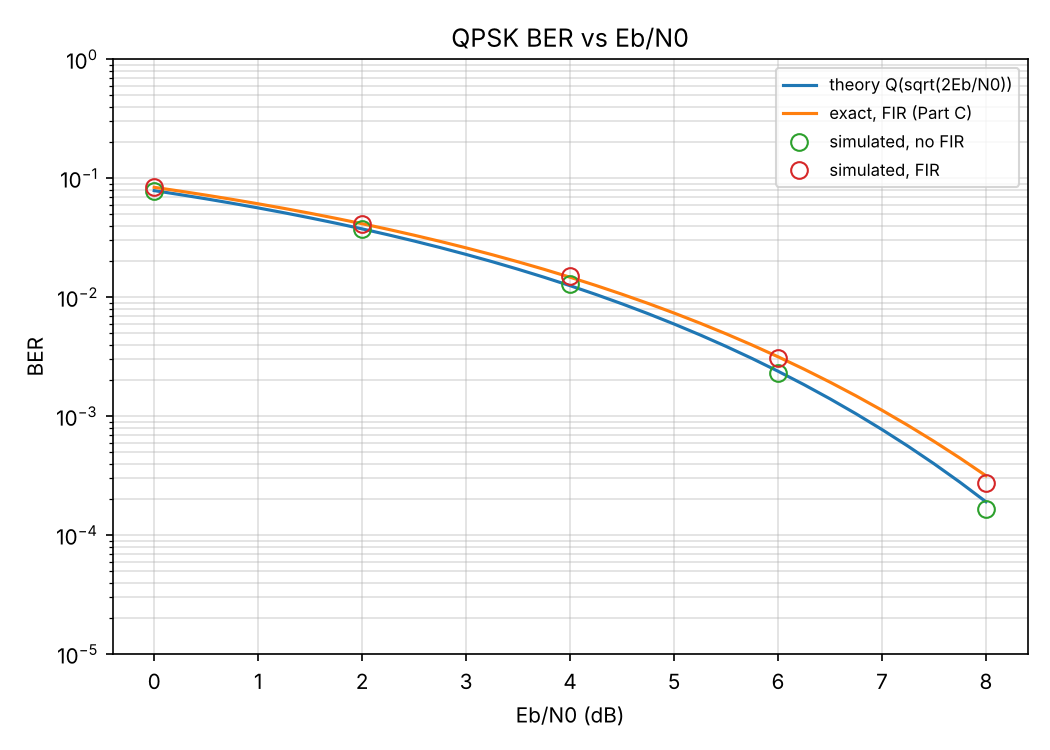
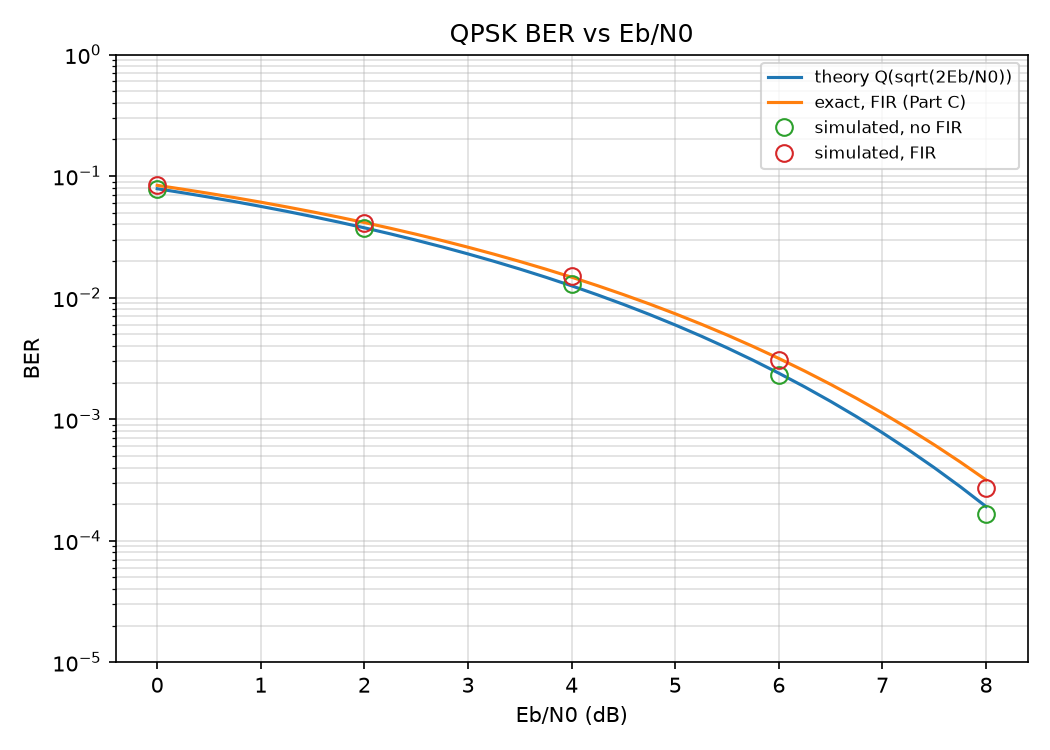
updates

Changed region(s): [[0.0305, 0.0307, 0.9752, 0.9813], [0.0, 0.46, 0.061, 0.5213], [0.7314, 0.368, 0.7619, 0.3987]]

diff --git a/python_codes/floating_point/main_float.py b/python_codes/floating_point/main_float.py
@@ -1,9 +1,8 @@
 """
 main_float.py
-Part D of the QPSK FPGA project golden model: the FLOATING-POINT end-to-end runner.
+the FLOATING-POINT end-to-end runner.
 
-Uses only the modules in this folder (tx_nco, channel, rx_frontend, rx_backend_eval) and runs
-the checks that prove the ALGORITHM is right before any bit-width is chosen:
+Uses only the modules in this folder (tx_nco, channel, rx_frontend, rx_backend_eval) and runs the checks that prove the ALGORITHM is right before any bit-width is chosen:
 
     1. noiseless chain gives exactly 0 errors (no FIR, FIR aligned, FIR causal)
     2. causal FIR + timing_offset = D gives the same decisions as aligned FIR + offset 0
@@ -12,15 +11,6 @@ the checks that prove the ALGORITHM is right before any bit-width is chosen:
     5. hardware-style LFSR noise gives the predicted BER (short run, see note below)
     6. the shared 4 dB scenario (fixed bits and noise), saved for the comparison with the integer chain
 
-The integer version of the same chain is in ../fixed_point/main_fixed.py. main() returns the numbers
-that ../compare_results.py compares; no results file is saved (only the plots).
-
-Run:   python main_float.py            (full run)
-       python main_float.py --quick    (smaller sweep, for a fast check)
-
-Author: Darsh (Part D)
-AI-assistance note: first draft written with Claude (Sonnet 5.5, Anthropic) as allowed by the
-    EE2000 AI-usage policy. The author must be able to explain and defend all of it in the viva.
 
 Notes:
   * Sweeps use numpy noise. channel.py's LFSR noise repeats exactly every 65535 samples
@@ -43,8 +33,7 @@ import rx_backend_eval as D
 SPS = params.SAMPLES_PER_SYMBOL
 QUICK = "--quick" in sys.argv
 
-HERE = os.path.dirname(os.path.abspath(__file__))
-OUT_DIR = os.path.join(HERE, "d_outputs")
+OUT_DIR = "d_outputs"
 
 H = C.design_lpf()                       # float taps, order 24
 D_FIR = C.group_delay_samples(H)         # 12 samples
@@ -53,9 +42,7 @@ SAVE_FILES = True                         # plots / golden vectors (compare_resu
 RESULTS = {}                             # filled by the checks, saved by save_results()
 
 
-# =======================================================================================
 # Chain building blocks
-# =======================================================================================
 
 def tx_float(bits):
     I, Q = tx_nco.map_qpsk(bits)
@@ -94,12 +81,10 @@ def run_chunk(ebn0_db, n_sym, seed):
     return out
 
 
-# =======================================================================================
 # 1. Noiseless sanity (gate: must be exactly zero errors)
-# =======================================================================================
 
 def check_noiseless():
-    print("\n--- Check 1: noiseless float chain must give exactly 0 errors ---")
+    print("\nCheck 1: noiseless float chain must give exactly 0 errors")
     bits = np.random.default_rng(1).integers(0, 2, 4000).astype(np.uint8)
     I, Q, s, cos, sin = tx_float(bits)
 
@@ -118,12 +103,10 @@ def check_noiseless():
     print("PASS")
 
 
-# =======================================================================================
 # 2. Causal vs aligned timing
-# =======================================================================================
 
 def check_timing():
-    print("\n--- Check 2: causal FIR + offset D equals aligned FIR + offset 0 ---")
+    print("\nCheck 2: causal FIR + offset D equals aligned FIR + offset 0 ")
     bits, r, cos, sin = simulate(6.0, 500, seed=9)
     yi_c, yq_c = rx_float(r, cos, sin, H, aligned=False)
     yi_a, yq_a = rx_float(r, cos, sin, H, aligned=True)
@@ -138,12 +121,10 @@ def check_timing():
     print("PASS")
 
 
-# =======================================================================================
 # 3. BER sweep
-# =======================================================================================
 
 def sweep():
-    print("\n--- Check 3: BER vs Eb/N0, without and with the FIR ---")
+    print("\nCheck 3: BER vs Eb/N0, without and with the FIR")
     ebn0_list = [0, 2, 4, 6, 8]
     max_bits = 200_000 if QUICK else 1_500_000
     names = ["no_fir", "fir"]
@@ -187,14 +168,12 @@ def sweep():
         print(f"wrote {path}")
 
 
-# =======================================================================================
 # 4. Constellations
-# =======================================================================================
 
 def constellations():
     if not SAVE_FILES:
         return
-    print("\n--- Check 4: constellation plots (FIR, aligned) ---")
+    print("\nCheck 4: constellation plots (FIR, aligned)")
     panels = []
     for e in (0.0, 6.0, 12.0):
         bits, r, cos, sin = simulate(e, 3000, seed=21)
@@ -206,12 +185,10 @@ def constellations():
     print(f"wrote {path}")
 
 
-# =======================================================================================
 # 5. LFSR (hardware-style) noise, short run
-# =======================================================================================
 
 def check_lfsr_noise():
-    print("\n--- Check 5: hardware-style LFSR noise, 4000 symbols at 2 dB ---")
+    print("\nCheck 5: hardware-style LFSR noise, 4000 symbols at 2 dB")
     bits = tx_nco.gen_bits(2 * 4000)
     I, Q, s, cos, sin = tx_float(bits)
     r = channel.awgn(s, 2.0, mode="lfsr", seed=3)
@@ -224,9 +201,7 @@ def check_lfsr_noise():
     print("PASS")
 
 
-# =======================================================================================
 # 6. Shared 4 dB scenario (the fixed_point folder runs the identical one)
-# =======================================================================================
 
 SCENARIO_EBN0_DB = 4.0
 SCENARIO_N_SYM = 100_000      # same in both folders, in quick mode too, so the results line up
@@ -235,7 +210,7 @@ SCENARIO_NOISE_SEED = 11
 
 
 def check_scenario():
-    print(f"\n--- Check 6: shared {SCENARIO_EBN0_DB:g} dB scenario (same bits, same noise as the integer run) ---")
+    print(f"\nCheck 6: shared {SCENARIO_EBN0_DB:g} dB scenario (same bits, same noise as the integer run)")
     bits = np.random.default_rng(SCENARIO_BIT_SEED).integers(0, 2, 2 * SCENARIO_N_SYM).astype(np.uint8)
     I, Q, s, cos, sin = tx_float(bits)
     r = channel.awgn(s, SCENARIO_EBN0_DB, mode="numpy", seed=SCENARIO_NOISE_SEED)
@@ -251,15 +226,11 @@ def check_scenario():
     print("PASS")
 
 
-# =======================================================================================
-
 def main():
     """Run every check. Returns the numbers compare_results.py needs; saves no results file."""
     if SAVE_FILES:
         os.makedirs(OUT_DIR, exist_ok=True)
-    print("=" * 74)
-    print("Part D FLOATING-POINT run" + ("  (quick mode)" if QUICK else ""))
-    print("=" * 74)
+    print("FLOATING-POINT run" + ("  (quick mode)" if QUICK else ""))
 
     check_noiseless()
     check_timing()
@@ -268,9 +239,7 @@ def main():
     check_lfsr_noise()
     check_scenario()
 
-    print("\n" + "=" * 74)
     print("All floating-point checks completed and PASSED (every check above is an assert).")
-    print("=" * 74)
     return dict(RESULTS, kind="floating-point", quick=QUICK, d_fir=D_FIR)
 
 

diff --git a/python_codes/floating_point/rx_backend_eval.py b/python_codes/floating_point/rx_backend_eval.py
@@ -43,9 +43,7 @@ def decide(I_hat, Q_hat):
     return bits
 
 
-# =======================================================================================
 # 2. BER counter
-# =======================================================================================
 
 def count_errors(tx_bits, rx_bits, skip_first=1, skip_last=1):
     """
@@ -69,9 +67,7 @@ def ber(tx_bits, rx_bits, skip_first=1, skip_last=1):
     return errors / total
 
 
-# =======================================================================================
 # 3. Sweep bookkeeping
-# =======================================================================================
 
 def bits_needed(expected_ber, min_errors=100, max_bits=1_500_000):
     """Bits to simulate so that about `min_errors` errors are expected (~10% accuracy)."""
@@ -114,9 +110,7 @@ def ber_sweep(run_chunk, ebn0_list, names, min_errors=100, max_bits=1_500_000,
     return out
 
 
-# =======================================================================================
 # 4. Plots
-# =======================================================================================
 
 def plot_ber(sim, lines, path):
     """
@@ -157,9 +151,7 @@ def plot_constellations(panels, path, scale=NOISELESS_LEVEL):
     plt.close(fig)
 
 
-# =======================================================================================
 # 5. Hex export for the Verilog testbench
-# =======================================================================================
 
 def fits_signed(x, bits):
     x = np.asarray(x)
